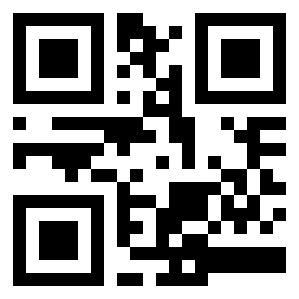
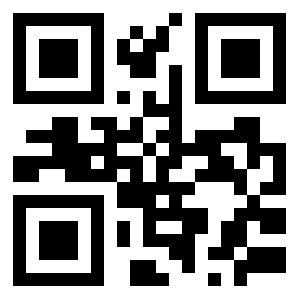
added support QR codes with your own strings

diff --git a/OpenGL-Sandbox/src/SandboxLayer.cpp b/OpenGL-Sandbox/src/SandboxLayer.cpp
@@ -45,9 +45,7 @@ void SandboxLayer::OnAttach()
 
 	SetDarkThemeColor();
 
-	my_image_width = 0;
-	my_image_height = 0;
-	my_image_texture = 0;
+	my_image_width, my_image_height, my_image_texture = 0;
 	ret = LoadTextureFromFile("qrcode.png", &my_image_texture, &my_image_width, &my_image_height);
 	// Init here
 }
@@ -260,6 +258,10 @@ void SandboxLayer::QRWindow()
 	ImGui::Text("pointer = %p", my_image_texture);
 	ImGui::Text("size = %d x %d", my_image_width, my_image_height);
 	ImGui::Image((void*)(intptr_t)my_image_texture, ImVec2(my_image_width, my_image_height));
+	ImGui::InputTextWithHint("##QRCodeText", "Text to encode", m_QRWordBuffer, IM_ARRAYSIZE(m_QRWordBuffer));
+	ImGui::SameLine();
+	if (ImGui::Button("Generate QR Code"))
+		GenerateQRCode();
 	ImGui::End();
 }
 
@@ -313,6 +315,29 @@ void SandboxLayer::SetDarkThemeColor()
 	// Slider
 	colors[ImGuiCol_SliderGrab] = ImVec4(0.94f, 0.94f, 0.94f, 0.5f);
 	colors[ImGuiCol_SliderGrabActive] = ImVec4(0.94f, 0.94f, 0.94f, 0.25f);
+}
+
+void SandboxLayer::GenerateQRCode()
+{
+	std::string filename = "qrcode.png";
+
+	int imgSize = 300;
+	int minModulePixelSize = 3;
+
+	m_Timer.Reset();
+	QrToPng exampleQrPng1 = QrToPng(filename, imgSize, minModulePixelSize, m_QRWordBuffer, true, qrcodegen::QrCode::Ecc::MEDIUM);
+	float time = m_Timer.ElapsedTimeinMillis();
+	LOG_INFO("It took {0} ms to write the image", time);
+
+	std::cout << "Writing Example QR code 1 (normal) to " << filename << " with text: '" << m_QRWordBuffer << "', size: " <<
+		imgSize << "x" << imgSize << ", qr module pixel size: " << minModulePixelSize << "." << std::endl;
+
+	if (exampleQrPng1.writeToPNG())
+		std::cout << "Success!" << std::endl;
+	else
+		std::cerr << "Failure..." << std::endl;
+
+	ret = LoadTextureFromFile("qrcode.png", &my_image_texture, &my_image_width, &my_image_height);
 }
 
 

diff --git a/OpenGL-Sandbox/src/SandboxLayer.h b/OpenGL-Sandbox/src/SandboxLayer.h
@@ -38,6 +38,7 @@ private:
 
 	const char* m_Vendor		= (const char*)glGetString(GL_VENDOR);
 	const char* m_GraphicsCard	= (const char*)glGetString(GL_RENDERER);
+	char m_QRWordBuffer[256] = "";
 
 	int my_image_width, my_image_height = 0;
 	GLuint my_image_texture = 0;
@@ -48,6 +49,7 @@ private:
 	void FontPopup();
 	void QRWindow();
 	void SetDarkThemeColor();
+	void GenerateQRCode();
 
 	void BasicQRDemo();
 	void ImageWriteTest(unsigned char w, unsigned char h, unsigned char channels_num);
